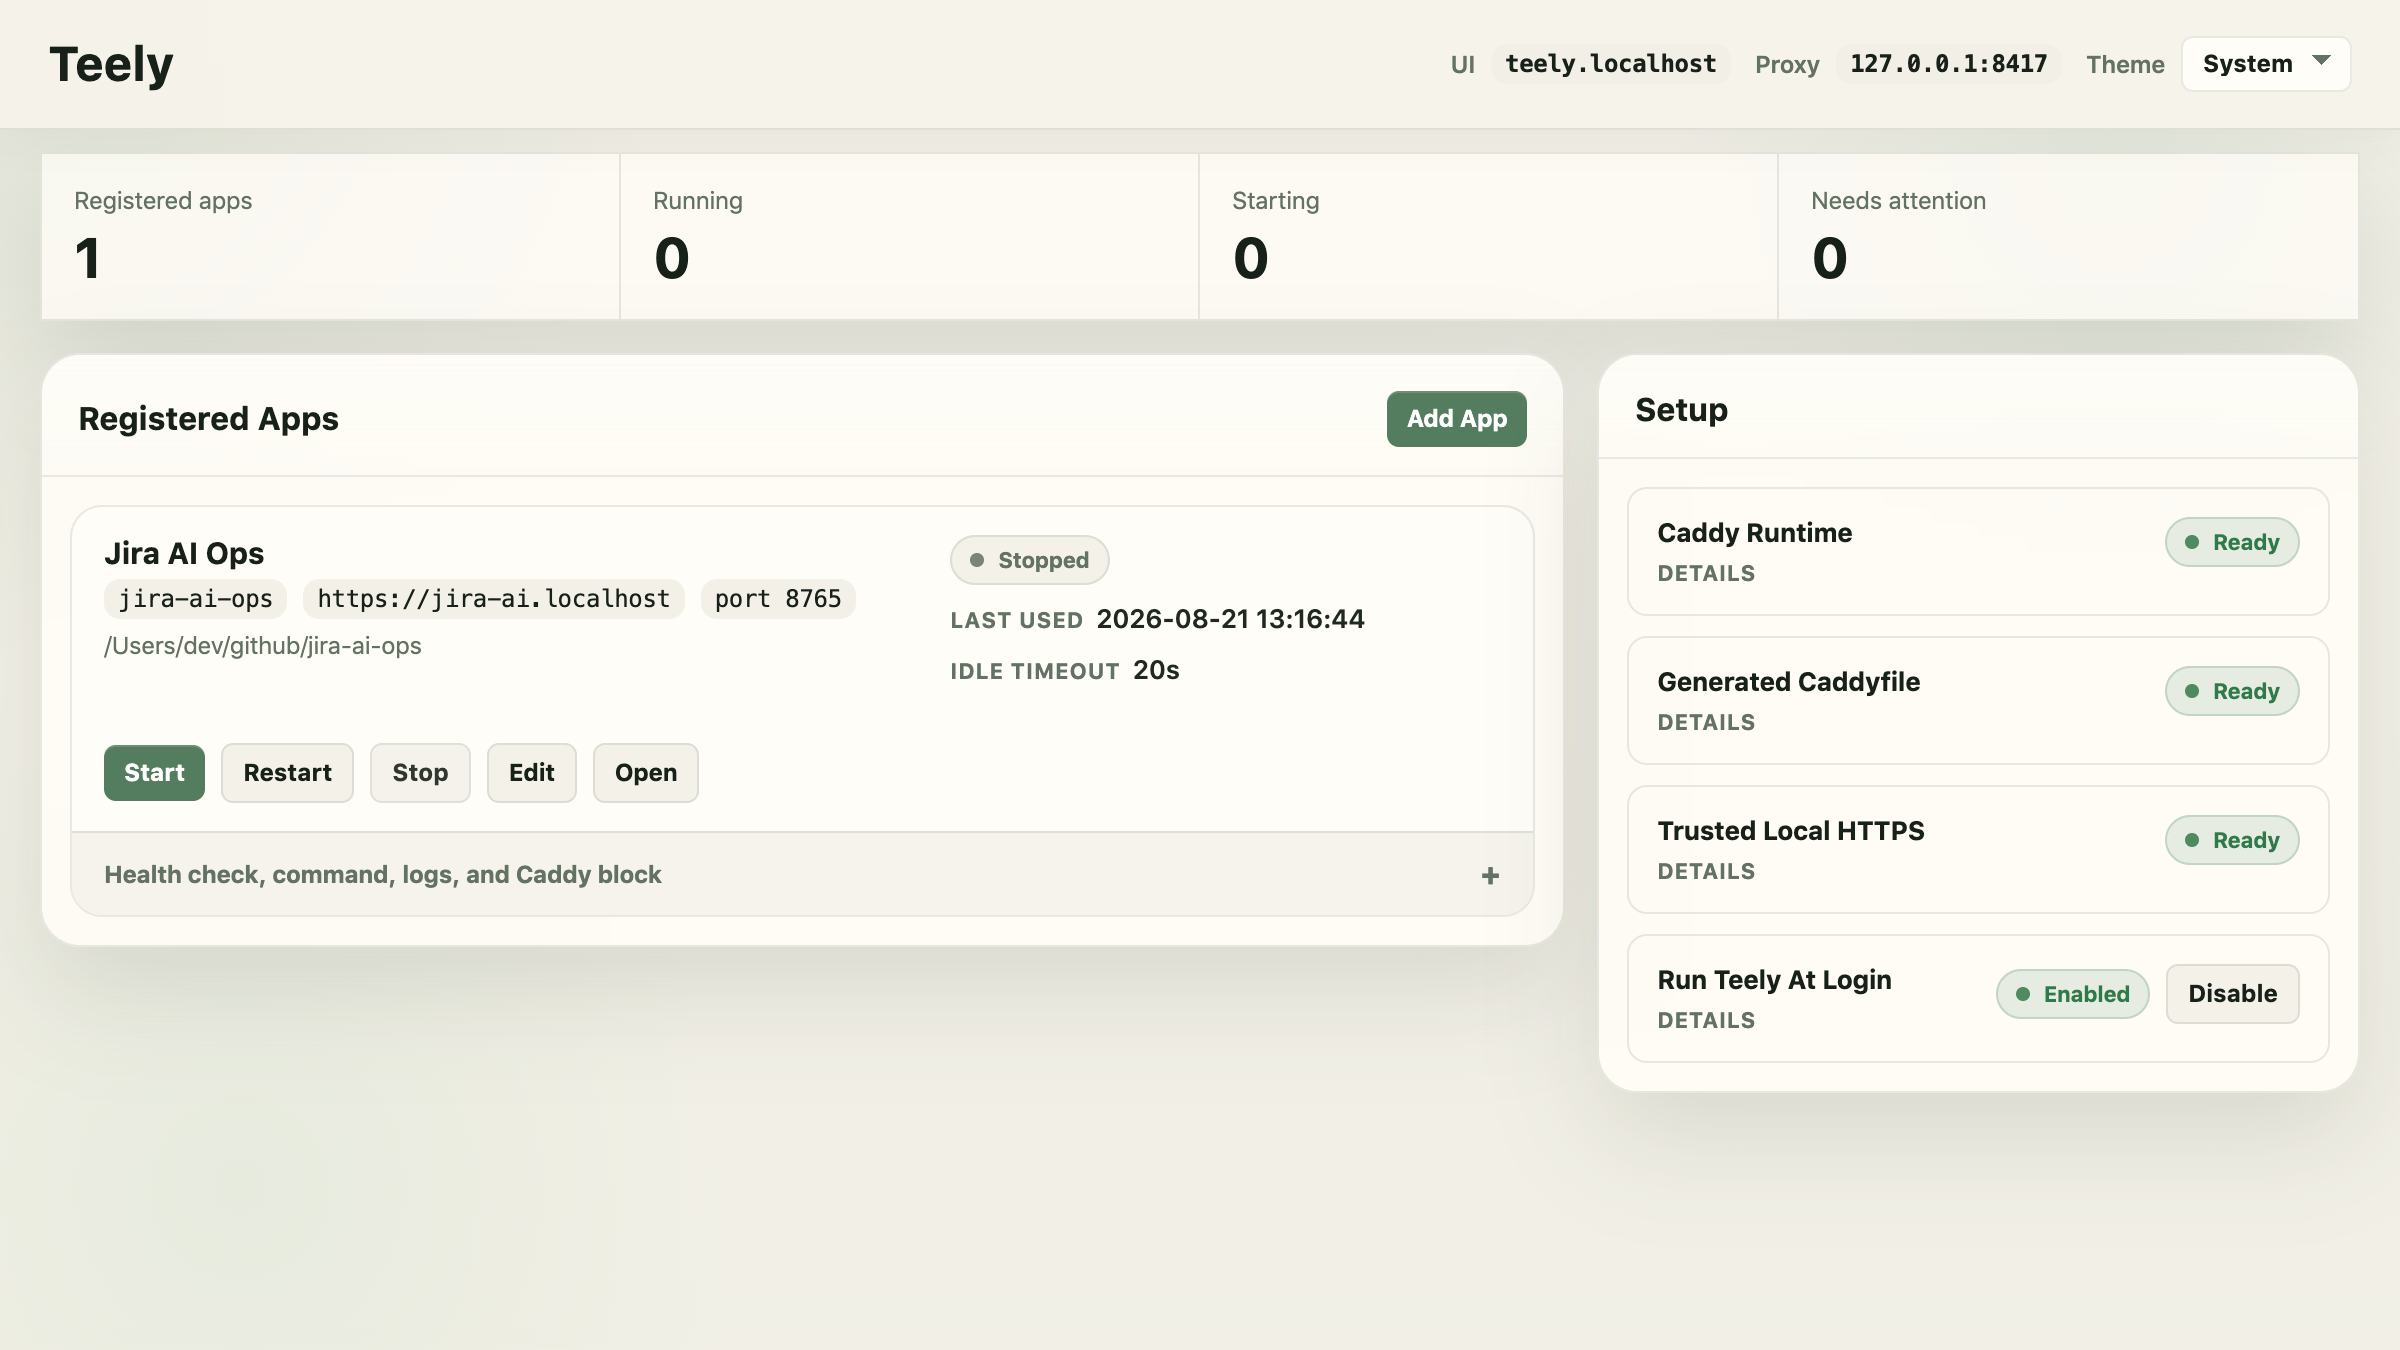
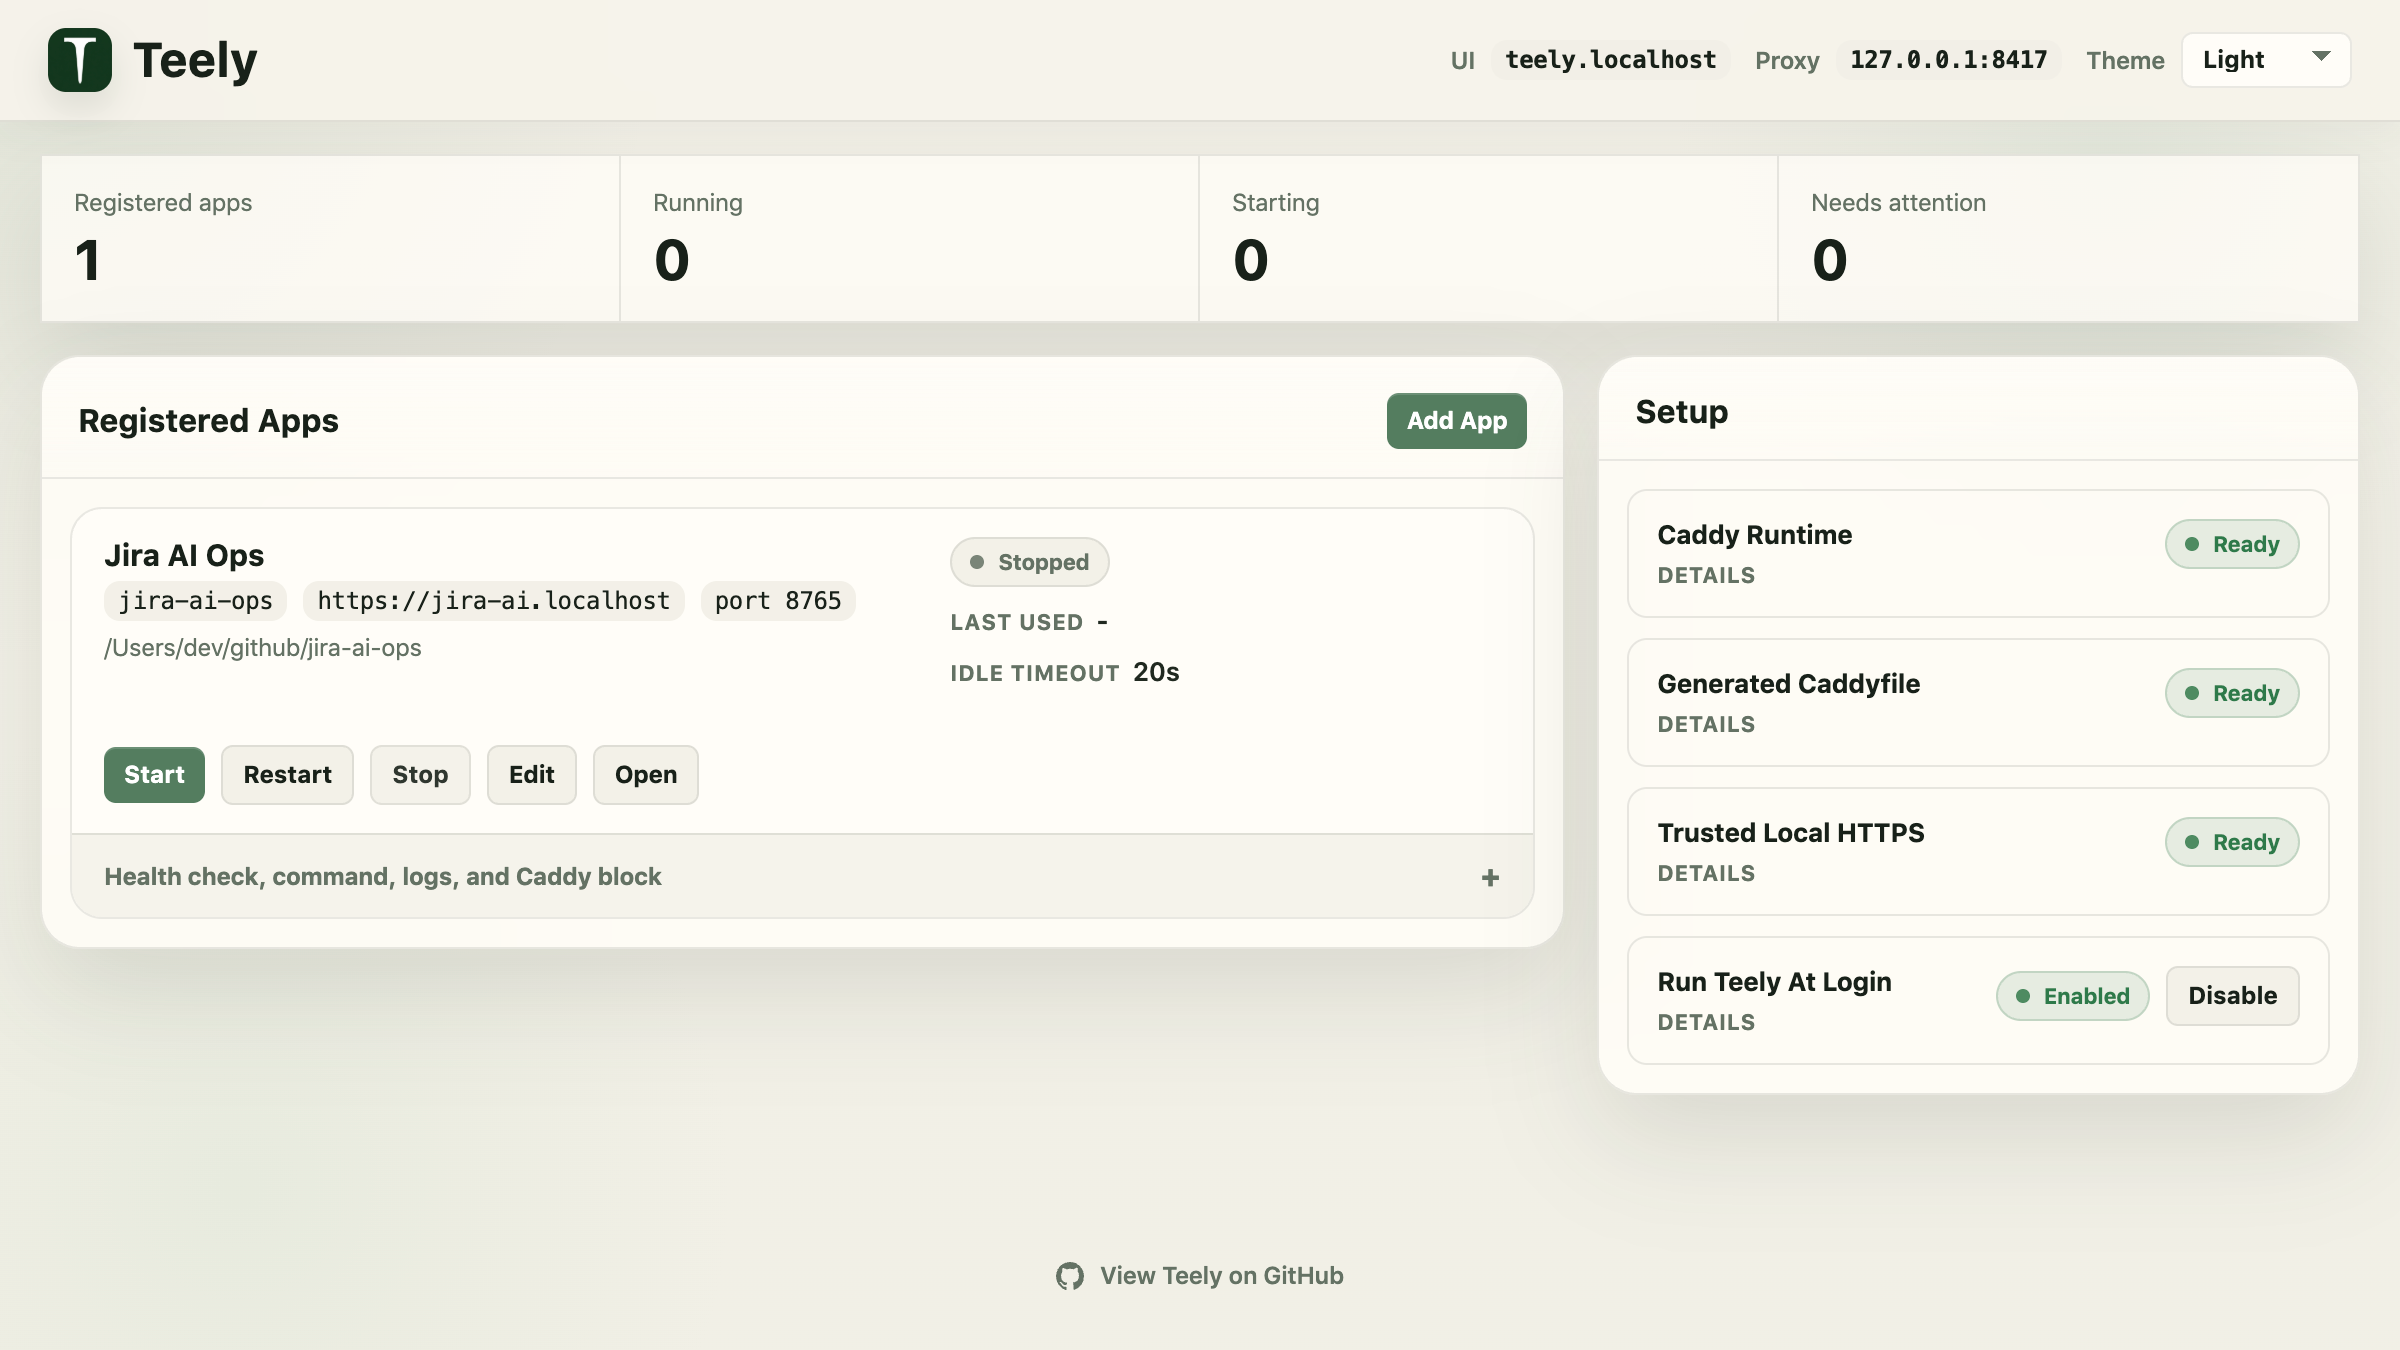
fix(ui): refine dashboard branding and runtime controls

diff --git a/internal/teely/http.go b/internal/teely/http.go
@@ -2,6 +2,7 @@ package teely
 
 import (
 	"context"
+	_ "embed"
 	"encoding/json"
 	"fmt"
 	"html/template"
@@ -11,6 +12,9 @@ import (
 	"strings"
 	"time"
 )
+
+//go:embed teely-icon.png
+var teelyIconPNG []byte
 
 type HTTPServer struct {
 	manager *Manager
@@ -78,6 +82,14 @@ func (m *Manager) handleAdmin(w http.ResponseWriter, r *http.Request) {
 		return
 	case r.Method == http.MethodGet && r.URL.Path == "/__teely/apps":
 		writeJSON(w, http.StatusOK, m.ListApps())
+		return
+	case (r.Method == http.MethodGet || r.Method == http.MethodHead) && r.URL.Path == "/__teely/icon.png":
+		w.Header().Set("Content-Type", "image/png")
+		w.Header().Set("Cache-Control", "no-store, max-age=0")
+		if r.Method == http.MethodHead {
+			return
+		}
+		_, _ = w.Write(teelyIconPNG)
 		return
 	case r.Method == http.MethodGet && r.URL.Path == "/__teely/caddyfile":
 		w.Header().Set("Content-Type", "text/plain; charset=utf-8")
@@ -352,6 +364,7 @@ var dashboardTemplate = template.Must(template.New("dashboard").Funcs(template.F
   <meta charset="utf-8">
   <meta name="viewport" content="width=device-width, initial-scale=1">
   <title>Teely</title>
+  <link rel="icon" type="image/png" href="/__teely/icon.png">
   <style>
     :root {
       color-scheme: light;
@@ -380,6 +393,7 @@ var dashboardTemplate = template.Must(template.New("dashboard").Funcs(template.F
       --radius-sm: 10px;
       --font-ui: "SF Pro Text", "SF Pro Display", "Helvetica Neue", -apple-system, BlinkMacSystemFont, sans-serif;
       --font-mono: ui-monospace, SFMono-Regular, Menlo, Monaco, Consolas, monospace;
+      --shell-top-space: 68px;
     }
     :root[data-theme="dark"] {
       color-scheme: dark;
@@ -441,13 +455,20 @@ var dashboardTemplate = template.Must(template.New("dashboard").Funcs(template.F
     }
     a { color: var(--accent); text-decoration: none; }
     a:hover { text-decoration: underline; }
-    .shell { max-width: 1320px; margin: 0 auto; padding: 68px 20px 20px; }
+    .shell {
+      max-width: 1320px;
+      min-height: 100vh;
+      margin: 0 auto;
+      padding: var(--shell-top-space) 20px 20px;
+      display: flex;
+      flex-direction: column;
+    }
     .topbar {
       display: flex;
       align-items: center;
       justify-content: space-between;
       gap: 16px;
-      padding: 18px 24px;
+      padding: 14px 24px;
       border-bottom: 1px solid var(--line);
       background: color-mix(in srgb, var(--bg) 78%, rgba(255,251,244,0.72) 22%);
       backdrop-filter: blur(18px);
@@ -457,6 +478,20 @@ var dashboardTemplate = template.Must(template.New("dashboard").Funcs(template.F
       left: 0;
       right: 0;
       z-index: 20;
+    }
+    .brand {
+      display: flex;
+      align-items: center;
+      gap: 10px;
+      min-width: 0;
+    }
+    .brand-mark {
+      width: 32px;
+      height: 32px;
+      border-radius: 9px;
+      flex: 0 0 auto;
+      display: block;
+      box-shadow: 0 8px 18px rgba(21,49,31,0.12);
     }
     .brand-copy h1 { margin: 0; font-size: 24px; line-height: 1.05; font-weight: 700; }
     .brand-copy p { margin: 4px 0 0; color: var(--muted); font-size: 13px; }
@@ -493,6 +528,32 @@ var dashboardTemplate = template.Must(template.New("dashboard").Funcs(template.F
       box-shadow: 0 0 0 3px color-mix(in srgb, var(--accent) 12%, transparent);
     }
     .main { display: grid; gap: 16px; margin-top: 8px; }
+    .footer {
+      display: flex;
+      justify-content: center;
+      margin-top: auto;
+      padding: 18px 0 10px;
+    }
+    .footer-link {
+      display: inline-flex;
+      align-items: center;
+      gap: 8px;
+      color: var(--muted);
+      font-size: 12px;
+      font-weight: 600;
+      text-decoration: none;
+      transition: color 120ms ease;
+    }
+    .footer-link:hover {
+      color: var(--text);
+      text-decoration: none;
+    }
+    .footer-link svg {
+      width: 14px;
+      height: 14px;
+      fill: currentColor;
+      flex: 0 0 auto;
+    }
     .stats {
       display: grid; grid-template-columns: repeat(4, minmax(0, 1fr)); gap: 0;
       border: 1px solid var(--line); background: color-mix(in srgb, var(--panel) 86%, transparent);
@@ -718,10 +779,22 @@ var dashboardTemplate = template.Must(template.New("dashboard").Funcs(template.F
       .setup-actions { justify-content: flex-start; }
     }
     @media (max-width: 720px) {
-      .shell { padding: 68px 14px 14px; }
-      .topbar { padding: 16px; }
-      .toolbar { justify-content: flex-start; }
-      .field-grid, .stats, .detail-grid { grid-template-columns: 1fr; }
+      .shell { padding: var(--shell-top-space) 14px 14px; }
+      .topbar {
+        padding: 12px 16px;
+        flex-direction: column;
+        align-items: flex-start;
+        gap: 10px;
+      }
+      .brand { width: 100%; }
+      .toolbar {
+        width: 100%;
+        justify-content: flex-start;
+        gap: 8px;
+      }
+      .chip, .theme-toggle { font-size: 11px; }
+      .field-grid, .detail-grid { grid-template-columns: 1fr; }
+      .stats { grid-template-columns: repeat(2, minmax(0, 1fr)); }
       .modal-shell { padding: 14px; }
     }
   </style>
@@ -730,6 +803,7 @@ var dashboardTemplate = template.Must(template.New("dashboard").Funcs(template.F
   <div class="shell">
     <header class="topbar">
       <div class="brand">
+        <img class="brand-mark" src="/__teely/icon.png" alt="Teely icon">
         <div class="brand-copy">
           <h1>Teely</h1>
         </div>
@@ -876,6 +950,14 @@ var dashboardTemplate = template.Must(template.New("dashboard").Funcs(template.F
         </aside>
       </section>
     </main>
+    <footer class="footer">
+      <a class="footer-link" href="https://github.com/marksowell/teely" target="_blank" rel="noreferrer">
+        <svg viewBox="0 0 16 16" aria-hidden="true">
+          <path d="M8 0C3.58 0 0 3.67 0 8.2c0 3.63 2.29 6.7 5.47 7.79.4.08.55-.18.55-.39 0-.19-.01-.82-.01-1.49-2.01.38-2.53-.5-2.69-.96-.09-.24-.48-.96-.82-1.15-.28-.16-.68-.55-.01-.56.63-.01 1.08.59 1.23.84.72 1.24 1.87.89 2.33.68.07-.53.28-.89.5-1.1-1.78-.21-3.64-.92-3.64-4.08 0-.9.31-1.64.82-2.22-.08-.2-.36-1.04.08-2.17 0 0 .67-.22 2.2.85A7.4 7.4 0 0 1 8 3.86c.68 0 1.37.09 2.01.27 1.53-1.07 2.2-.85 2.2-.85.44 1.13.16 1.97.08 2.17.51.58.82 1.31.82 2.22 0 3.17-1.87 3.87-3.65 4.08.29.25.54.73.54 1.48 0 1.07-.01 1.93-.01 2.2 0 .22.14.48.55.39A8.19 8.19 0 0 0 16 8.2C16 3.67 12.42 0 8 0Z"/>
+        </svg>
+        <span>View Teely on GitHub</span>
+      </a>
+    </footer>
   </div>
 
   {{ if .ShowModal }}
@@ -937,14 +1019,25 @@ var dashboardTemplate = template.Must(template.New("dashboard").Funcs(template.F
       const storageKey = "teely.theme";
       const root = document.documentElement;
       const select = document.getElementById("theme-select");
+      const topbar = document.querySelector(".topbar");
+      const syncHeaderOffset = () => {
+        if (!topbar) {
+          return;
+        }
+        const extra = 8;
+        const height = Math.ceil(topbar.getBoundingClientRect().height);
+        root.style.setProperty("--shell-top-space", String(height + extra) + "px");
+      };
       const applyTheme = (theme) => {
         root.dataset.theme = theme;
         if (select) {
           select.value = theme;
         }
       };
+      syncHeaderOffset();
       const saved = window.localStorage.getItem(storageKey) || "system";
       applyTheme(saved);
+      window.addEventListener("resize", syncHeaderOffset);
       if (select) {
         select.addEventListener("change", () => {
           const theme = select.value;

diff --git a/cmd/teely/bootstrap.go b/cmd/teely/bootstrap.go
@@ -339,6 +339,29 @@ func stopFromPIDFile(pidFile, name string) {
 	_ = os.Remove(pidFile)
 }
 
+func stopManagedProcess(pidFile, name, port string) {
+	stopFromPIDFile(pidFile, name)
+	if strings.TrimSpace(port) == "" {
+		return
+	}
+	pid := listenerPID(port)
+	if pid == 0 {
+		return
+	}
+	process, err := os.FindProcess(pid)
+	if err == nil {
+		_ = process.Signal(syscall.SIGTERM)
+		for i := 0; i < 10; i++ {
+			if err := process.Signal(syscall.Signal(0)); err != nil {
+				break
+			}
+			time.Sleep(time.Second)
+		}
+		_ = process.Kill()
+		fmt.Printf("Stopped %s listener on port %s (pid %d)\n", name, port, pid)
+	}
+}
+
 func reportStatus(pidFile, name string) {
 	if pid, ok := runningPID(pidFile); ok {
 		fmt.Printf("%s: running (pid %d)\n", name, pid)

diff --git a/cmd/teely/main.go b/cmd/teely/main.go
@@ -214,7 +214,7 @@ func runDown(args []string) {
 	if err != nil {
 		log.Fatalf("load config: %v", err)
 	}
-	stopFromPIDFile(filepath.Join(cfg.RuntimeDir, "run", "teely.pid"), "Teely")
+	stopManagedProcess(filepath.Join(cfg.RuntimeDir, "run", "teely.pid"), "Teely", listenPort(cfg.ListenAddress))
 	stopFromPIDFile(filepath.Join(cfg.RuntimeDir, "run", "caddy.pid"), "Caddy")
 }
 
